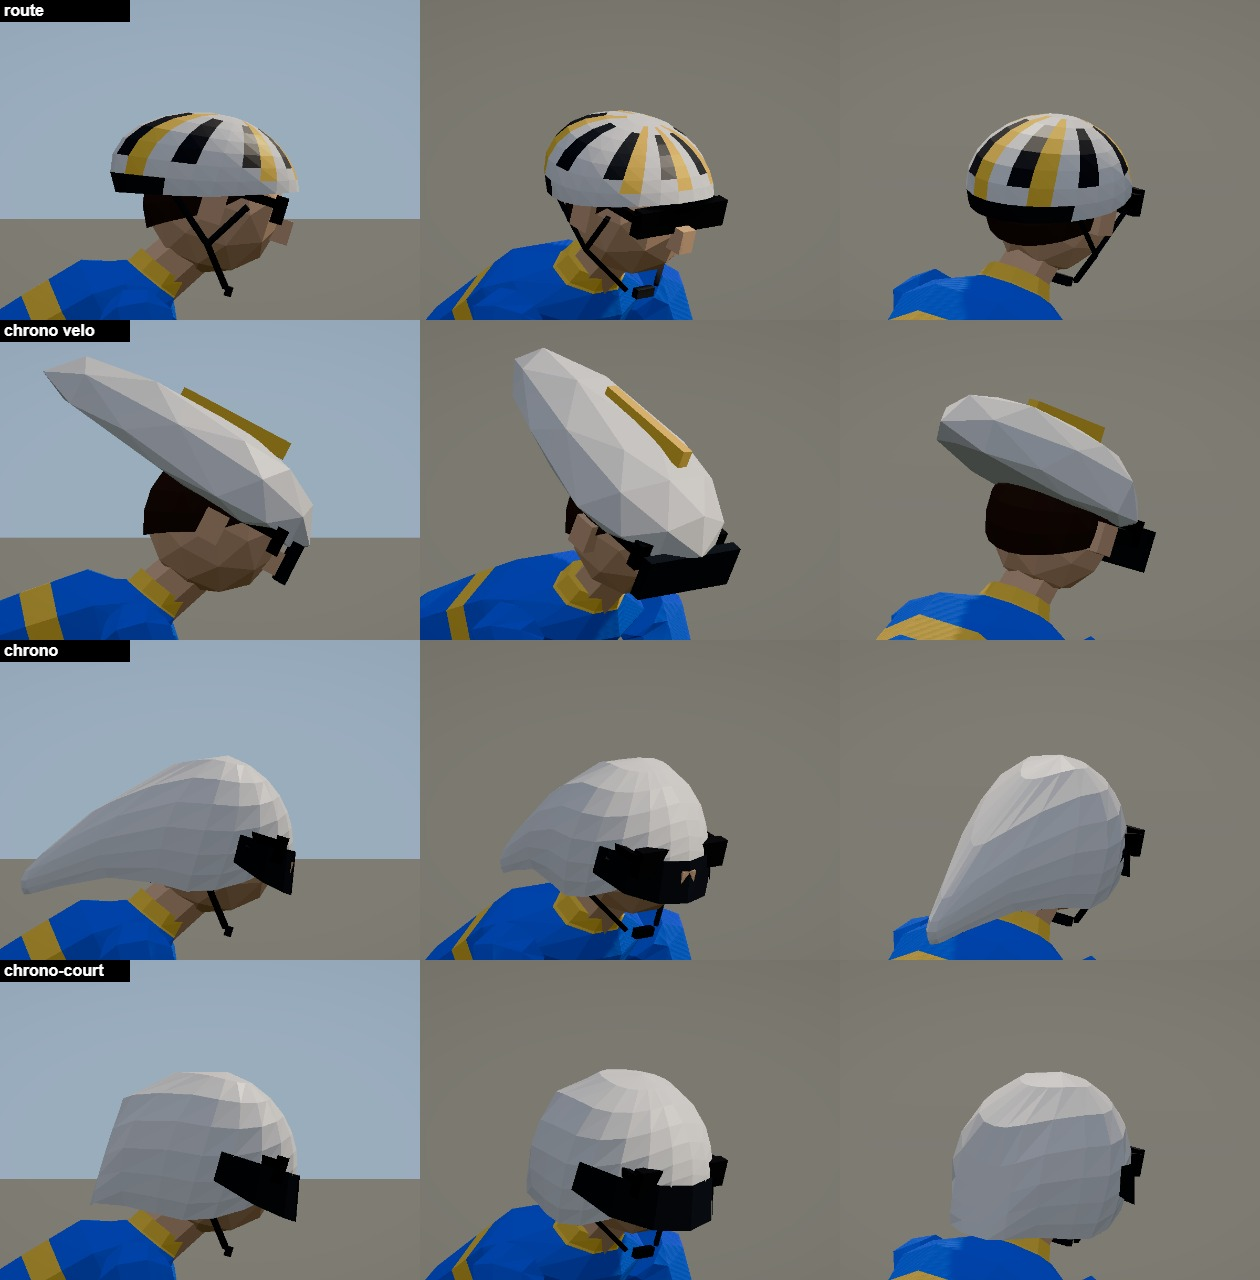
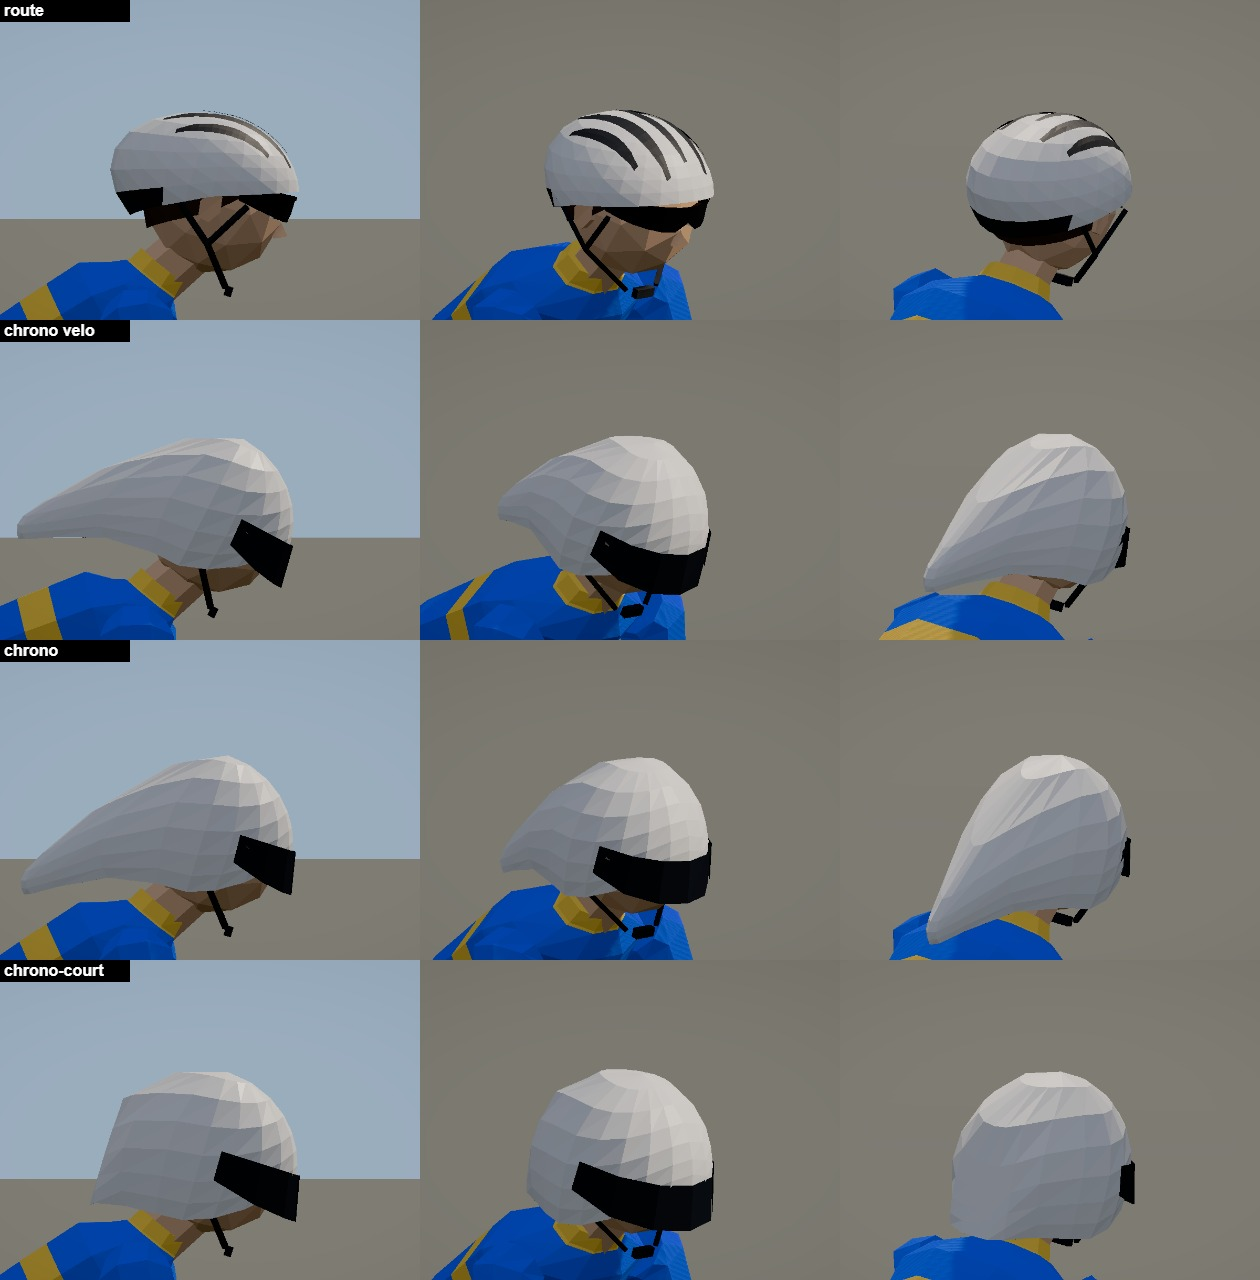
feat(low poly) : tête retouchée — oreilles, lunettes-écran, aérations et sangles du casque, casques chrono
- Oreilles à facettes (disque à six pans en pavillon) au lieu de cubes.
- Lunettes-écran enveloppantes façon NCT : bande qui suit le visage, encoche du nez, fine monture,
  branches jusqu'au haut des oreilles ; couleurs des verres et de la monture du garage.
- Casque route : cinq fentes d'aération parallèles d'avant en arrière qui suivent la coque (au lieu
  de rayons depuis le sommet) ; sangles en Y qui suivent la tête jusque sous le menton.
- Casques chrono : la visière tient lieu de lunettes (lunettes masquées, visière à la couleur des
  verres), pas de sangles ; le vélo de chrono porte le casque chrono à longue queue au lieu de
  l'ancien casque d'office. Reconstruction du coureur corrigée (pièces à plusieurs matériaux).
- Style réaliste : pas de sangles du casque route sous les casques chrono du garage.

diff --git a/apps/client/src/rider/lowPolyRider.ts b/apps/client/src/rider/lowPolyRider.ts
@@ -255,11 +255,74 @@ function merged(parts: THREE.BufferGeometry[], material: THREE.Material): THREE.
   return m;
 }
 
-/** Liseré du casque : la couleur de la coque, assombrie si elle est claire, éclaircie sinon. */
-function helmetTrim(shell: string): string {
-  const hsl = { h: 0, s: 0, l: 0 };
-  new THREE.Color(shell).getHSL(hsl);
-  return `#${new THREE.Color().setHSL(hsl.h, hsl.s, hsl.l > 0.5 ? hsl.l - 0.22 : hsl.l + 0.22).getHexString()}`;
+/**
+ * Aérations du casque de route (repère de la coque) : canaux d'avant en arrière, parallèles — au milieu, de
+ * part et d'autre, sur les flancs — qui descendent jusqu'au bord avant (casques Kask, Bell). `x` : écart
+ * latéral (symétrique sauf au milieu), `w` : demi-largeur, de `z0` (arrière) à `z1` (avant).
+ */
+const HELMET_VENTS: ReadonlyArray<{ x: number; w: number; z0: number; z1: number }> = [
+  { x: 0, w: 0.009, z0: -0.075, z1: 0.1 },
+  { x: 0.042, w: 0.011, z0: -0.11, z1: 0.11 },
+  { x: 0.08, w: 0.009, z0: -0.085, z1: 0.07 },
+];
+
+/**
+ * Fentes d'aération posées sur la coque `shell` (repère de la coque) : bandes sombres qui suivent sa surface
+ * (lancer de rayons vers le bas sur la coque, trois points en travers), effilées aux deux bouts, 3 mm au-dessus
+ * de la surface et dessinées devant elle (décalage de profondeur).
+ */
+function helmetVents(shell: THREE.Mesh, mat: THREE.Material): THREE.Mesh {
+  const ray = new THREE.Raycaster();
+  const probe = new THREE.Mesh(shell.geometry, new THREE.MeshBasicMaterial({ side: THREE.DoubleSide }));
+  const down = new THREE.Vector3(0, -1, 0);
+  const onShell = (x: number, z: number): THREE.Vector3 | null => {
+    ray.set(new THREE.Vector3(x, 1, z), down);
+    const hit = ray.intersectObject(probe, false)[0];
+    if (!hit || !hit.face) return null;
+    return hit.point.clone().addScaledVector(hit.face.normal, 0.003);
+  };
+  const parts: THREE.BufferGeometry[] = [];
+  const N = 14;
+  for (const v of HELMET_VENTS) {
+    for (const sx of v.x === 0 ? [0] : [1, -1]) {
+      const pos: number[] = [];
+      let prev: [THREE.Vector3, THREE.Vector3, THREE.Vector3] | null = null;
+      for (let i = 0; i <= N; i++) {
+        const u = i / N;
+        const z = v.z0 + (v.z1 - v.z0) * u;
+        // Bouts arrondis : la fente s'effile vers ses extrémités.
+        const w = v.w * Math.sqrt(Math.max(0.15, Math.sin(Math.PI * u)));
+        // Trois points en travers (bords et milieu) : la fente épouse la coque sans y plonger.
+        const a = onShell(sx * v.x - w, z);
+        const m = onShell(sx * v.x, z);
+        const b = onShell(sx * v.x + w, z);
+        if (!a || !m || !b) {
+          // Une fente reste d'un seul tenant : elle s'arrête au premier point hors de la coque.
+          if (prev) break;
+          continue;
+        }
+        if (prev) {
+          const [pa, pm, pb] = prev;
+          pos.push(...pa.toArray(), ...a.toArray(), ...m.toArray(), ...pa.toArray(), ...m.toArray(), ...pm.toArray());
+          pos.push(...pm.toArray(), ...m.toArray(), ...b.toArray(), ...pm.toArray(), ...b.toArray(), ...pb.toArray());
+        }
+        prev = [a, m, b];
+      }
+      if (!pos.length) continue;
+      const g = new THREE.BufferGeometry();
+      g.setAttribute('position', new THREE.Float32BufferAttribute(pos, 3));
+      g.computeVertexNormals();
+      parts.push(g);
+    }
+  }
+  (probe.material as THREE.Material).dispose();
+  const out = new THREE.Mesh(mergeGeometries(parts) ?? new THREE.BufferGeometry(), mat);
+  // Toujours devant la coque (pas de points blancs dans les fentes selon l'angle).
+  mat.side = THREE.DoubleSide;
+  mat.polygonOffset = true;
+  mat.polygonOffsetFactor = -2;
+  mat.polygonOffsetUnits = -2;
+  return out;
 }
 
 /** Hauteur de jante (m) par type de roue. */
@@ -292,6 +355,66 @@ function noseGeometry(): THREE.BufferGeometry {
   g.setAttribute('position', new THREE.Float32BufferAttribute(tris.flat(), 3));
   g.computeVertexNormals();
   return g;
+}
+
+/**
+ * Lunettes-écran enveloppantes (repère de la tête) : bande qui suit la courbure du visage d'une tempe à
+ * l'autre (arc ±SHIELD_SPAN autour de l'axe vertical), plus étroite vers les côtés, avec une encoche au
+ * milieu du bord bas pour le nez ; `frame` : fine monture le long du bord haut.
+ */
+const SHIELD_SPAN = 1.3;
+function shieldGeometry(): { lens: THREE.BufferGeometry; frame: THREE.BufferGeometry } {
+  const N = 12;
+  const at = (phi: number, y: number, out = 0): THREE.Vector3 => v3((0.109 + out) * Math.sin(phi), y, (0.124 + out) * Math.cos(phi));
+  const lensPos: number[] = [];
+  const framePos: number[] = [];
+  const quad = (arr: number[], a: THREE.Vector3, b: THREE.Vector3, c: THREE.Vector3, d: THREE.Vector3) => arr.push(...a.toArray(), ...b.toArray(), ...c.toArray(), ...a.toArray(), ...c.toArray(), ...d.toArray());
+  for (let i = 0; i < N; i++) {
+    const cols = [i, i + 1].map((k) => {
+      const phi = -SHIELD_SPAN + (2 * SHIELD_SPAN * k) / N;
+      const u = phi / SHIELD_SPAN;
+      const top = 0.046 - 0.007 * u * u;
+      // Bord bas : remonte vers les côtés, encoche du nez au milieu.
+      const bottom = 0.004 + 0.013 * u * u + 0.017 * Math.max(0, 1 - Math.abs(phi) / 0.24);
+      return { phi, top, bottom };
+    });
+    const [l, r] = cols as [{ phi: number; top: number; bottom: number }, { phi: number; top: number; bottom: number }];
+    quad(lensPos, at(l.phi, l.bottom), at(r.phi, r.bottom), at(r.phi, r.top), at(l.phi, l.top));
+    quad(framePos, at(l.phi, l.top - 0.002, 0.002), at(r.phi, r.top - 0.002, 0.002), at(r.phi, r.top + 0.005, 0.002), at(l.phi, l.top + 0.005, 0.002));
+  }
+  const geo = (pos: number[]) => {
+    const g = new THREE.BufferGeometry();
+    g.setAttribute('position', new THREE.Float32BufferAttribute(pos, 3));
+    g.computeVertexNormals();
+    return g;
+  };
+  return { lens: geo(lensPos), frame: geo(framePos) };
+}
+
+/** Tête à facettes (icosaèdre de buildBody) : demi-axes x, y, z. */
+const HEAD_AXES = v3(0.112 * 0.92, 0.112 * 1.05, 0.112);
+
+/**
+ * Point de la surface de la tête dans la direction (x, y, z) depuis son centre, décalé de `out` (m) vers
+ * l'extérieur : sangles posées sur la peau.
+ */
+function onHead(x: number, y: number, z: number, out = 0.0045): THREE.Vector3 {
+  const d = v3(x, y, z).normalize();
+  const t = 1 / Math.sqrt((d.x / HEAD_AXES.x) ** 2 + (d.y / HEAD_AXES.y) ** 2 + (d.z / HEAD_AXES.z) ** 2);
+  return d.multiplyScalar(t + out);
+}
+
+/**
+ * Oreille à facettes (côté `side` : +1 gauche) : disque à six pans aplati, plus haut que large, penché vers
+ * l'arrière, plus épais au bord avant collé à la tête qu'au bord arrière décollé (pavillon).
+ */
+function earGeometry(side: number): THREE.BufferGeometry {
+  const g = new THREE.CylinderGeometry(0.021, 0.021, 0.012, 6).rotateZ(Math.PI / 2).scale(1, 1.3, 0.9);
+  const p = g.getAttribute('position');
+  // Pavillon : l'arrière s'écarte de la tête, l'avant s'y colle.
+  for (let i = 0; i < p.count; i++) p.setX(i, p.getX(i) + side * Math.max(0, -p.getZ(i)) * 0.25);
+  g.rotateX(0.22);
+  return g.translate(0.103 * side, -0.006, -0.008);
 }
 
 /**
@@ -425,6 +548,8 @@ export class LowPolyRider implements RiderAvatarLike {
   /** « Sans casque » / « Sans lunettes » de la tenue (look.noHelmet, look.noGlasses). */
   private noHelmet = false;
   private noGlasses = false;
+  /** Casque chrono porté : sa visière tient lieu de lunettes (lunettes masquées, sauf tête nue). */
+  private visorOn = false;
   private fit: Fit = FITS.drop;
   private sockLen = 0.11;
   private longSleeves = false;
@@ -490,7 +615,8 @@ export class LowPolyRider implements RiderAvatarLike {
         // Vélo du modèle : géométries partagées avec la famille chargée, matériaux rendus par realMats.
         if (!mesh.isMesh || o.userData.shared) return;
         mesh.geometry.dispose();
-        (mesh.material as THREE.Material).dispose();
+        // (casques chrono : plusieurs matériaux)
+        for (const m of Array.isArray(mesh.material) ? mesh.material : [mesh.material]) m.dispose();
       });
     }
     this.realMats?.dispose();
@@ -639,12 +765,19 @@ export class LowPolyRider implements RiderAvatarLike {
 
     // Tête : icosaèdre à facettes un peu grand (lisible de loin), nez, oreilles, lunettes de sport.
     const skull = new THREE.Mesh(new THREE.IcosahedronGeometry(0.112, 1).scale(0.92, 1.05, 1), skin);
-    const face = merged([noseGeometry(), box(0.03, 0.05, 0.04, 0.104, -0.005, -0.005), box(0.03, 0.05, 0.04, -0.104, -0.005, -0.005)], skin);
+    const face = merged([noseGeometry(), earGeometry(1), earGeometry(-1)], skin);
     // Lunettes : écran à la couleur des verres, branches à celle de la monture (garage).
     const glasses = new THREE.Group();
+    // Écran enveloppant d'une pièce (comme les coureurs NCT), monture fine en haut ; branches des bouts de
+    // l'écran jusqu'au haut des oreilles (earGeometry : haut à y ≈ 0,02, z ≈ −0,01), en biais.
+    const lensMat = flat(look.glassesLens ?? '#15171b', 0.3, 0.3);
+    lensMat.side = THREE.DoubleSide;
+    const frameMat = flat(look.glassesFrame ?? '#15171b', 0.3, 0.3);
+    const shield = shieldGeometry();
     glasses.add(
-      new THREE.Mesh(box(0.2, 0.045, 0.02, 0, 0.022, 0.102), flat(look.glassesLens ?? '#15171b', 0.3, 0.3)),
-      merged([box(0.01, 0.015, 0.12, 0.099, 0.03, 0.04), box(0.01, 0.015, 0.12, -0.099, 0.03, 0.04)], flat(look.glassesFrame ?? '#15171b', 0.3, 0.3)),
+      new THREE.Mesh(shield.lens, lensMat),
+      new THREE.Mesh(shield.frame, frameMat),
+      merged([1, -1].map((sx) => tube(v3(0.104 * sx, 0.034, 0.04), v3(0.118 * sx, 0.017, -0.012), 0.0065, 0.006, 4)), frameMat),
     );
     this.glasses = glasses;
     // Yeux (sous les lunettes, visibles sans elles) : blanc, pupille et sourcil posés à plat sur la facette du
@@ -747,6 +880,9 @@ export class LowPolyRider implements RiderAvatarLike {
   /** Casque de route (aérations, bande de couleur), casque aéro des vélos de chrono, ou casquette. */
   private buildHeadgear(look: AvatarLook, bike: BikeBuild): void {
     const g = this.headgear;
+    this.visorOn = !look.cap && (!!look.helmetShape || !!bike.params.aeroHelmet);
+    // Visière des casques chrono : lunettes aéro, à la couleur des verres choisis au garage.
+    const visorMat = flat(look.glassesLens ?? '#20242c', 0.15, 0.4);
     const shellMat = flat(look.helmet, 0.45);
     const dark = flat('#1d1f24');
     if (look.cap) {
@@ -760,66 +896,56 @@ export class LowPolyRider implements RiderAvatarLike {
       g.add(new THREE.Mesh(box(0.13, 0.01, 0.038, 0, 0.0, 0.019).rotateX(-1.0).translate(0, 0.055, 0.105), flat(cap.accent ?? cap.colors?.[1] ?? cap.color)));
       return;
     }
-    // Sangles fines en Y : une devant et une derrière l'oreille, réunies sous l'oreille, puis jusqu'au menton.
+    // Sangles en Y qui suivent la tête (quelques millimètres au-dessus de la peau) : une branche devant l'oreille
+    // et une derrière, qui sortent de sous le bord du casque, réunies sous l'oreille, puis une sangle le long
+    // de la mâchoire jusque sous le menton, boucle sur le côté (casque de route seulement).
     const straps = (): THREE.Mesh => {
       const parts: THREE.BufferGeometry[] = [];
+      const path = (dirs: Array<[number, number, number]>, sx: number) => {
+        const pts = dirs.map(([x, y, z]) => onHead(x * sx, y, z));
+        for (let i = 0; i + 1 < pts.length; i++) parts.push(tube(pts[i] as THREE.Vector3, pts[i + 1] as THREE.Vector3, 0.0042, 0.0042, 4));
+      };
       for (const sx of [1, -1]) {
-        const knot = v3(0.1 * sx, -0.065, 0.005);
-        parts.push(tube(v3(0.112 * sx, 0.012, 0.05), knot, 0.0055, 0.0055, 4), tube(v3(0.108 * sx, -0.005, -0.07), knot, 0.0055, 0.0055, 4), tube(knot, v3(0.035 * sx, -0.125, 0.055), 0.0055, 0.0055, 4));
+        const knot: [number, number, number] = [0.86, -0.5, 0.08];
+        path([[0.96, 0.16, 0.26], [0.95, -0.18, 0.22], knot], sx); // devant l'oreille
+        path([[0.84, 0.14, -0.52], [0.9, -0.24, -0.3], knot], sx); // derrière l'oreille
+        path([knot, [0.66, -0.72, 0.24], [0.32, -0.86, 0.4], [0, -0.86, 0.5]], sx); // mâchoire, menton
       }
-      parts.push(box(0.04, 0.016, 0.012, 0, -0.13, 0.062));
+      // Boucle, sous le menton sur le côté.
+      parts.push(new THREE.BoxGeometry(0.026, 0.01, 0.016).lookAt(v3(0, -1, 0.4)).translate(...onHead(0.16, -0.86, 0.48, 0.008).toArray()));
       return merged(parts, dark);
     };
-    if (look.helmetShape) {
-      // Casque chrono du garage : mêmes formes que le style réaliste (aeroHelmet.ts), à facettes, ajustées à
-      // la coque du casque de route ci-dessous.
-      const geo = aeroHelmetGeometry(look.helmetShape, ROAD_HELMET_BOX, new THREE.Matrix4(), 0, HELMET_FACETED);
+    if (look.helmetShape || bike.params.aeroHelmet) {
+      // Casque chrono du garage, ou d'office sur un vélo de chrono (à longue queue) : mêmes formes que le style
+      // réaliste (aeroHelmet.ts), à facettes, ajustées à la coque du casque de route ci-dessous.
+      const geo = aeroHelmetGeometry(look.helmetShape ?? 'chrono', ROAD_HELMET_BOX, new THREE.Matrix4(), 0, HELMET_FACETED);
       geo.deleteAttribute('skinIndex');
       geo.deleteAttribute('skinWeight');
       const faceted = geo.toNonIndexed();
       faceted.computeVertexNormals();
-      g.add(new THREE.Mesh(faceted, [shellMat, dark, flat('#20242c', 0.15, 0.4)]));
-      g.add(straps());
-      return;
-    }
-    if (bike.params.aeroHelmet) {
-      // Casque de chrono : goutte d'eau allongée vers l'arrière, visière sombre.
-      const shell = new THREE.IcosahedronGeometry(0.14, 1);
-      const p = shell.getAttribute('position');
-      for (let i = 0; i < p.count; i++) {
-        const z = p.getZ(i);
-        const back = z < 0 ? -z * 1.4 : 0;
-        p.setXYZ(i, p.getX(i) * (1 - back * 1.6) * 0.95, Math.max(p.getY(i), -0.02) * 0.85 + back * 0.25, z * 1.25 - back * 0.9);
-      }
-      g.add(new THREE.Mesh(shell.translate(0, 0.04, -0.02), shellMat));
-      g.add(new THREE.Mesh(box(0.21, 0.07, 0.02, 0, 0.0, 0.135), flat('#20242c', 0.15, 0.4)));
-      g.add(merged([box(0.02, 0.03, 0.2, 0, 0.16, -0.05)], flat(helmetTrim(look.helmet))));
+      // Pas de sangles sous un casque chrono.
+      g.add(new THREE.Mesh(faceted, [shellMat, dark, visorMat]));
       return;
     }
     // Casque de route : coque ovale profilée vers l'arrière, bord qui remonte au-dessus des lunettes et descend
-    // bas sur l'occiput (protection de l'arrière du crâne, comme les casques actuels) ; aérations sombres
-    // creusées dans la coque (faces colorées, rien ne dépasse) et serrage noir à l'arrière.
+    // bas sur l'occiput (protection de l'arrière du crâne, comme les casques actuels) ; fentes d'aération sombres
+    // posées sur la coque et serrage noir à l'arrière. Aérations comme les casques de route actuels (Kask, POC,
+    // Bell) : canaux allongés d'avant en arrière, parallèles (HELMET_VENTS, helmetVents).
     const SEGS = 24;
-    const geo = headShell(0.128, 0.12, 0.145, 1.27, 1.7, 2.35, 0.22, SEGS, 8).toNonIndexed();
+    const ROWS = 8;
+    const geo = headShell(0.128, 0.12, 0.145, 1.27, 1.7, 2.35, 0.22, SEGS, ROWS).toNonIndexed();
     const p = geo.getAttribute('position');
     const shellC = new THREE.Color(look.helmet);
     const ventC = new THREE.Color('#202329');
-    // Bandes décoratives le long des aérations (casques NCT), d'un ton voisin de la coque : le casque ne change
-    // pas avec le maillot.
-    const stripeC = new THREE.Color(helmetTrim(look.helmet));
     const cols: number[] = [];
     const tris = p.count / 3;
     for (let t = 0; t < tris; t++) {
-      // Facette (rangée r depuis le sommet, colonne j) ; les deux triangles d'un quadrilatère ont la même couleur.
+      // Facette (rangée r depuis le sommet, colonne j) : serrage noir sur la nuque, coque ailleurs.
       const qi = t < SEGS ? t : Math.floor((t - SEGS) / 2);
       const r = t < SEGS ? 1 : 2 + Math.floor(qi / SEGS);
       const j = qi % SEGS;
       const dz = Math.cos(((j + 0.5) / SEGS) * Math.PI * 2);
-      // Aérations en fentes qui rayonnent du sommet vers l'avant et l'arrière ; serrage noir sur la nuque.
-      const vent = r >= 3 && r <= 6 && j % 3 === 1 && Math.abs(dz) > 0.3;
-      const cradle = r >= 8 && dz < -0.5;
-      const stripe = r >= 2 && r <= 7 && j % 3 === 2 && Math.abs(dz) > 0.2;
-      const col = vent || cradle ? ventC : stripe ? stripeC : shellC;
+      const col = r >= ROWS && dz < -0.5 ? ventC : shellC;
       for (let v = 0; v < 3; v++) cols.push(col.r, col.g, col.b);
     }
     geo.setAttribute('color', new THREE.Float32BufferAttribute(cols, 3));
@@ -827,6 +953,7 @@ export class LowPolyRider implements RiderAvatarLike {
     helmetMat.flatShading = true;
     const shell = new THREE.Mesh(geo, helmetMat);
     shell.position.set(0, 0.025, -0.012);
+    shell.add(helmetVents(shell, flat('#202329', 0.6)));
     g.add(shell);
     g.add(straps());
   }
@@ -1340,7 +1467,7 @@ export class LowPolyRider implements RiderAvatarLike {
   /** Casque et lunettes : retirés tête nue (aperçu de l'éditeur de visage) ou par la tenue. */
   private applyHeadwear(): void {
     this.headgear.visible = !this.bareHead && !this.noHelmet;
-    if (this.glasses) this.glasses.visible = !this.bareHead && !this.noGlasses;
+    if (this.glasses) this.glasses.visible = !this.bareHead && !this.noGlasses && (!this.visorOn || this.noHelmet);
   }
 
   /** Écran allumé du compteur, incliné vers le coureur sur la potence. */

diff --git a/apps/client/src/rider/gltfAvatar.ts b/apps/client/src/rider/gltfAvatar.ts
@@ -1264,7 +1264,7 @@ export class GltfRiderAvatar implements RiderAvatarLike {
       }
       else if (/^rider_hair(_lod\d)?$/.test(n)) this.hair.cap.push(o);
       if (n.startsWith('rider_helmet_aero')) this.headgear.aero.push(o);
-      // Sangles du casque route : portées aussi avec les casques chrono du garage.
+      // Sangles du casque route (pas avec les casques chrono).
       else if (n.startsWith('rider_helmet_straps')) this.headgear.straps.push(o);
       else if (n.startsWith('rider_helmet')) this.headgear.road.push(o);
       else if (n.startsWith('rider_glasses')) this.headgear.glasses.push(o);
@@ -1852,7 +1852,8 @@ export class GltfRiderAvatar implements RiderAvatarLike {
     for (const [shape, meshes] of this.garageHelmets) for (const o of meshes) o.visible = helmet && garage !== null && shape === this.look.helmetShape;
     for (const o of this.headgear.aero) o.visible = aero && helmet;
     for (const o of this.headgear.road) o.visible = !aero && !cap && !garage && helmet;
-    for (const o of this.headgear.straps) o.visible = !aero && !cap && helmet;
+    // Pas de sangles sous les casques chrono du garage (le casque chrono d'office a les siennes, dans le modèle).
+    for (const o of this.headgear.straps) o.visible = !aero && !cap && !garage && helmet;
     // Les casques chrono ont leur visière : lunettes seulement sans eux.
     for (const o of this.headgear.glasses) o.visible = (!(aero || garage) || !helmet) && glasses;
     const mats = this.look.cap ? capMaterials(this.look.cap) : null;
